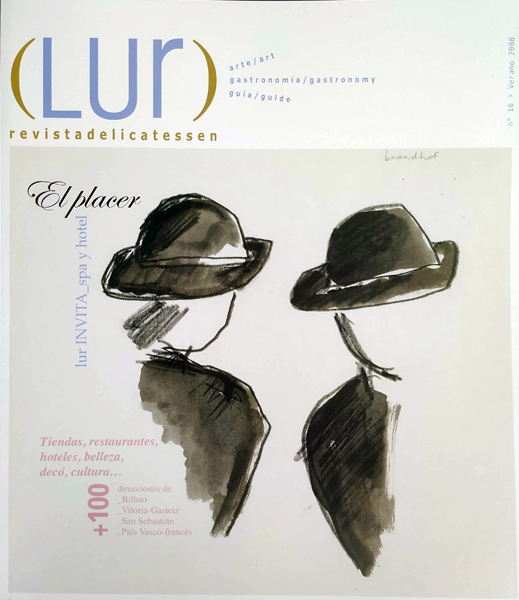
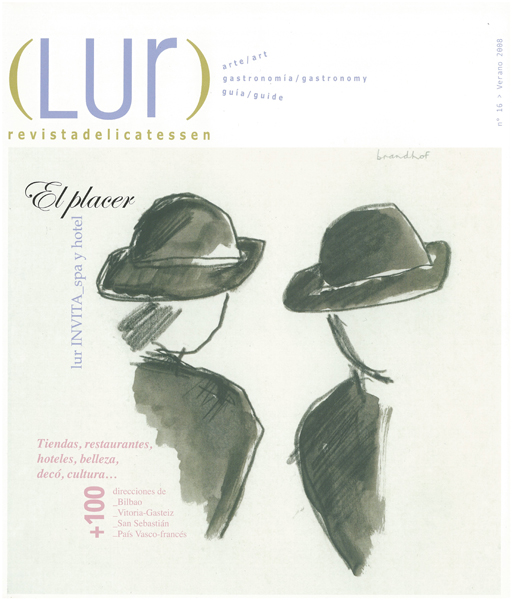
Corrections
Expositions +1l
Biblio
Maternite Cover (LUR moins contraste)
Alt sur photo avec M Fisher
Correction pages niv 1 ../styl

diff --git a/fr/bibliographie.html b/fr/bibliographie.html
@@ -8,7 +8,7 @@
 <meta name="robots" content="index,follow" />
 <meta name="language" content="fr" />
 <meta http-equiv="Content-Type" content="text/html; charset=ISO-8859-15" />
-<link rel="stylesheet" href="/style-1.css" type="text/css" media="all" />
+<link rel="stylesheet" href="../style-1.css" type="text/css" media="all" />
 </head>
 <body>
 	
@@ -50,7 +50,7 @@
 					<li >Incau, Lucie d&rsquo;. Robert Brandhof, la fulgurance du trait. <i>Atlantica</i>,
 					2006, n&deg;139, p.36-37 &nbsp;&nbsp;ISSN 1.252.719X</li>
 					<li >Martin, Otto. Robert Brandhof, la marque de l&rsquo;essentiel. <i>Revista</i>, 2006, n&deg;12, p.20-26  &nbsp;&nbsp;ISSN 1765-1832</li>
-					<li >Robert Brandhof nos atrapa. <i>(L<span style="font-size:1.3em;">ur</i>), Vitoria-Gasteiz, 2008, n&deg;16, p.44-46</li>
+					<li >Robert Brandhof nos atrapa. revista <i>(L<span style="font-size:1.3em;">ur</i>), Vitoria-Gasteiz, 2008, n&deg;16, p.44-46</li>
 					<!-- <li >L&rsquo;Atelier de Robert Brandhof. <i>Etc</i>, 2009, n&deg;10, p.36-39 &nbsp;&nbsp;ISSN 1954-9784 </li> -->
 					<li >B&egrave;ge, Jean-Fran&ccedil;ois. Ciboure. Robert Brandhof et la Poterie retrouv&eacute;e. 
 					<i>Le Festin</i>, <BR/>

diff --git a/fr/avec-max-fischer-biarritz-2003.html b/fr/avec-max-fischer-biarritz-2003.html
@@ -3,16 +3,17 @@
 
 <head>
 <title>Photo de Robert Brandhof et Max Fischer : La poterie de CIboure</title>
-<meta name="description" content="Photo de Robert Brandhof et Max Fischer. Biarritz 2003" />
+<meta name="description" content="Photo de Robert Brandhof et Max Fischer. Biarritz juin 2003" />
 <meta name="keywords" content="Poterie de Ciboure, max fischer, brandhof " />
 <meta name="robots" content="index,follow" />
 <meta name="language" content="fr" />
-<link rel="stylesheet" href="/style-1.css" type="text/css" media="all" />
+<link rel="stylesheet" href="../style-1.css" type="text/css" media="all" />
 </head>
 <body>
 <div class="page">
 	<div class="photo">
-	  <img src="../img/max-fisher-robert-brandhof-biarritz-2003.jpg" style="height:500px;" alt="Robert Brandhof et Max Fischer &agrave; la terrasse d&acute;un caf&eacute; de Biarritz en 2003"/>
+	  <img src="../img/max-fisher-robert-brandhof-biarritz-2003.jpg" style="height:500px;" 
+	  alt="Robert Brandhof et Max Fischer &agrave; Biarritz en juin 2003"/>
 	  
 	</div>
 	<div class="legend">

diff --git a/fr/livres/maternite-cover.html b/fr/livres/maternite-cover.html
@@ -7,7 +7,7 @@
 <meta name="keywords" content="brandhof" />
 <meta name="robots" content="index,follow" />
 <meta name="language" content="fr" />
-<link rel="stylesheet" href="../../style-1.css" type="text/css" media="all" />
+<link rel="stylesheet" href="../style-1.css" type="text/css" media="all" />
 </head>
 <body>
 <div class="page">
@@ -65,7 +65,7 @@
 					<li>Jean Buescher Bartlett, Ann Arbor, MI, USA, 1 exemplaire &Eacute;preuve d&rsquo;Artiste</li>
 					<li>Annie Boige, France, 2007, 1 exemplaire</li>
 					<li>Florent Rousseau, France, 2008, 1 exemplaire</li>
-					<li>Carlos Sanchez-Alamo, Espagne, 2006-2008, 3 exemplaires</li>
+					<li>Carlos S&aacute;nchez-&Aacute;lamo, Espagne, 2006-2008, 3 exemplaires</li>
 				</ul>
 		  </p>
 

diff --git a/fr/expositions.html b/fr/expositions.html
@@ -67,6 +67,7 @@ collectives
 	    <li >Buchgalerie Mergemeier, D&uuml;sseldorf, Allemagne, 1997</li>
 		</ul>	
 	</li>  
+	<li >Exposition "Le Livre et la cr&eacute;ation", M.I.P.E., Saint-Malo, France, 2010</li>
 	<li >Exposition "H&eacute;liogravures - A(E)ncrages, Temps denses", Galerie Imagineo, Paris, France, 2014</li>
 	<li >Exposition "La Poterie d'Art de Ciboure 1919-1995", Mus&eacute;e Basque, Bayonne, France, Juillet 2020 - Janvier 2021</li>
 </ul>

diff --git a/index.html b/index.html
@@ -11,7 +11,7 @@
 <meta http-equiv="Content-Type" content="text/html; charset=ISO-8859-15" />
 <meta name="google-site-verification" content="UxrX8ljKEVQwiqYlY1bqYYSxy-eUgZoFuSoMURMpUMY" />
 
-<link rel="stylesheet" href="style-1.css" type="text/css" media="all"/>
+<link rel="stylesheet" href="../style-1.css" type="text/css" media="all"/>
 </head>
 <body>
 <div class="page">

diff --git a/fr/poterie-de-ciboure-1993-max-fisher.html b/fr/poterie-de-ciboure-1993-max-fisher.html
@@ -7,7 +7,7 @@
 <meta name="keywords" content="brandhof, poterie de cioure, max fisher" />
 <meta name="robots" content="index,follow" />
 <meta name="language" content="fr" />
-<link rel="stylesheet" href="/style-1.css" type="text/css" media="all" />
+<link rel="stylesheet" href="../style-1.css" type="text/css" media="all" />
 </head>
 <body>
 <div class="page">

diff --git a/fr/article-trinquet-moderne-SO-1996-08-08.html b/fr/article-trinquet-moderne-SO-1996-08-08.html
@@ -7,7 +7,7 @@
 <meta name="keywords" content="brandhof, trinquet moderne, sud ouest" />
 <meta name="robots" content="index,follow" />
 <meta name="language" content="fr" />
-<link rel="stylesheet" href="/style-1.css" type="text/css" media="all" />
+<link rel="stylesheet" href="../style-1.css" type="text/css" media="all" />
 </head>
 <body>
 <div class="page">

diff --git a/fr/rencontre-fred-klein-1974-Paris.html b/fr/rencontre-fred-klein-1974-Paris.html
@@ -7,7 +7,7 @@
 <meta name="keywords" content=" fred klein, brandhof, Paris," />
 <meta name="robots" content="index,follow" />
 <meta name="language" content="fr" />
-<link rel="stylesheet" href="/style-1.css" type="text/css" media="all" />
+<link rel="stylesheet" href="../style-1.css" type="text/css" media="all" />
 </head>
 <body>
 <div class="page">

diff --git a/fr/biographie.html b/fr/biographie.html
@@ -8,7 +8,7 @@
 <meta name="robots" content="index,follow" />
 <meta name="language" content="fr" />
 <meta http-equiv="Content-Type" content="text/html; charset=ISO-8859-15" />
-<link rel="stylesheet" href="/style-1.css" type="text/css" media="all" />
+<link rel="stylesheet" href="../style-1.css" type="text/css" media="all" />
 </head>
 <body>
 	

diff --git a/fr/bussum.html b/fr/bussum.html
@@ -6,7 +6,7 @@
 <meta name="keywords" content="brandhof" />
 <meta name="robots" content="index,follow" />
 <meta name="language" content="fr" />
-<link rel="stylesheet" href="/style-1.css" type="text/css" media="all" />
+<link rel="stylesheet" href="../style-1.css" type="text/css" media="all" />
 </head>
 <body>
 <div class="page">

diff --git a/fr/couverture-cap-ferret.html b/fr/couverture-cap-ferret.html
@@ -7,7 +7,7 @@
 <meta name="keywords" content="brandhof" />
 <meta name="robots" content="index,follow" />
 <meta name="language" content="fr" />
-<link rel="stylesheet" href="/style-1.css" type="text/css" media="all" />
+<link rel="stylesheet" href="../style-1.css" type="text/css" media="all" />
 </head>
 <body>
 <div class="page">

diff --git a/fr/couverture-cordoba.html b/fr/couverture-cordoba.html
@@ -7,7 +7,7 @@
 <meta name="keywords" content="brandhof" />
 <meta name="robots" content="index,follow" />
 <meta name="language" content="fr" />
-<link rel="stylesheet" href="/style-1.css" type="text/css" media="all" />
+<link rel="stylesheet" href="../style-1.css" type="text/css" media="all" />
 </head>
 <body>
 <div class="page">
